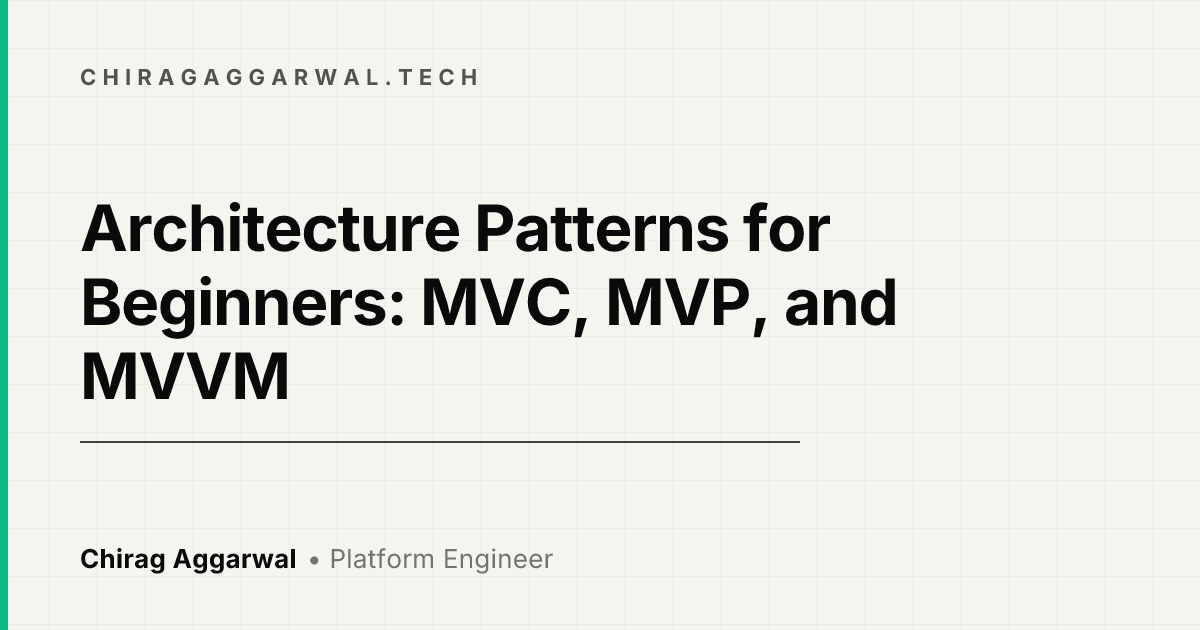
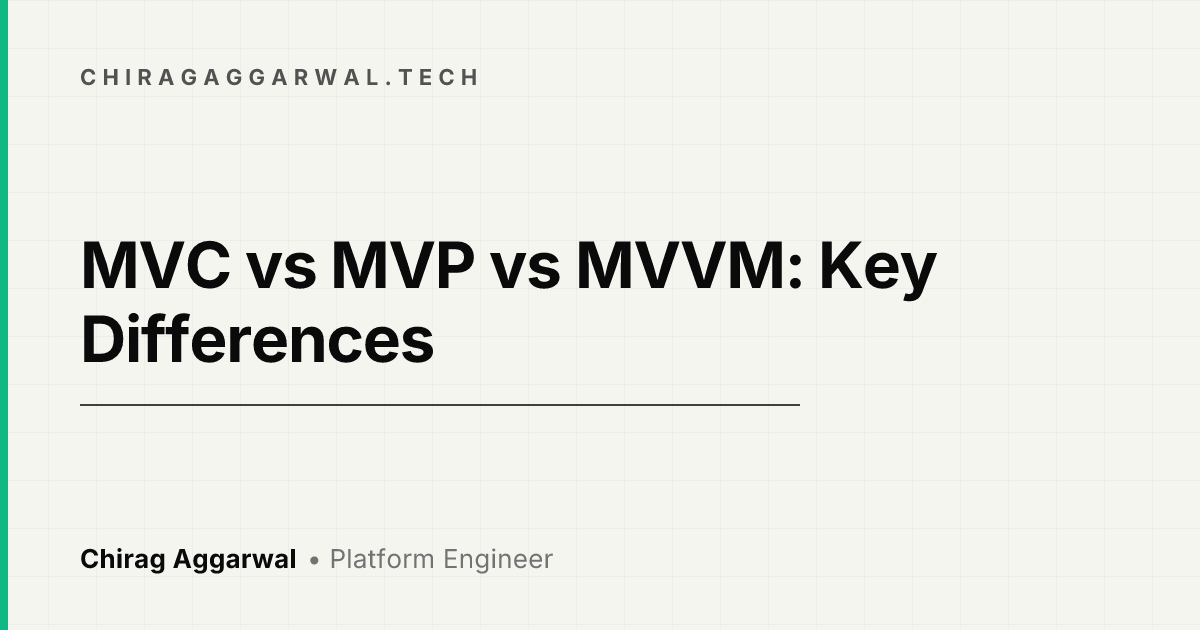
Improve search snippets and page stability

Changed region(s): [[0.0617, 0.3016, 0.8017, 0.6635], [0.0925, 0.6937, 0.6475, 0.7238], [0.6167, 0.5127, 0.6475, 0.5429]]

diff --git a/sites/profile-website/src/routes/index.tsx b/sites/profile-website/src/routes/index.tsx
@@ -35,7 +35,7 @@ export const Route = createFileRoute("/")({
           "@type": "Person",
           name: DATA.name,
           url: DATA.url,
-          image: `${DATA.url}/me.png`,
+          image: `${DATA.url}${DATA.avatarUrl}`,
           jobTitle: DATA.jobTitle,
           description: DATA.seoDescription,
           worksFor: {
@@ -104,7 +104,12 @@ function HomePage() {
               </div>
               <BlurFade delay={BLUR_FADE_DELAY}>
                 <Avatar className="size-28 border hover:shadow-lg hover:shadow-foreground/20 transition-all duration-300 ease-in-out">
-                  <AvatarImage alt={DATA.name} src={DATA.avatarUrl} />
+                  <AvatarImage
+                    alt={DATA.name}
+                    src={DATA.avatarUrl}
+                    width={112}
+                    height={112}
+                  />
                   <AvatarFallback>{DATA.initials}</AvatarFallback>
                 </Avatar>
               </BlurFade>
@@ -130,7 +135,7 @@ function HomePage() {
               </HandwrittenNote>
               <a href="/resume">
                 <Button size="sm" variant="outline">
-                  View Resume
+                  View Platform Engineer Resume
                   <Notebook className="ml-2 h-4 w-4" />
                 </Button>
               </a>
@@ -357,7 +362,7 @@ function HomePage() {
               </div>
             </BlurFade>
             <BlurFade delay={BLUR_FADE_DELAY * 14}>
-              <Marquee>
+              <Marquee repeat={2}>
                 {DATA.achievements.map((achievement, id) => (
                   <div key={achievement.title + id}>
                     <div>
@@ -367,6 +372,8 @@ function HomePage() {
                         alt={achievement.title}
                         width={400}
                         height={400}
+                        loading="lazy"
+                        decoding="async"
                       />
                     </div>
                   </div>

diff --git a/sites/profile-website/src/data/posts.tsx b/sites/profile-website/src/data/posts.tsx
@@ -9,6 +9,7 @@ type MdxPostComponent = ComponentType<{
 type BlogPost = {
   title: string;
   publishedAt: string;
+  updatedAt?: string;
   slug?: string;
   href?: string;
   // Plain-text excerpt (~155 chars) used for meta/OG/Twitter descriptions and
@@ -45,11 +46,12 @@ const basePosts: BlogPost[] = [
       "How Cyclops turns the chaos of managing Kubernetes clusters into a calm, UI-driven experience, with a hands-on walkthrough of the tool.",
   },
   {
-    title: "Conditional Dependency Management Using Maven Profiles",
+    title: "Maven Conditional Dependencies with Profiles",
     slug: "conditional-dependency-management-using-maven-profiles",
     publishedAt: "2024-08-06",
+    updatedAt: "2026-09-04",
     description:
-      "Using Maven profiles to manage conditional dependencies so your Java builds pull exactly the right libraries for each environment.",
+      "Learn how to use Maven profiles for conditional dependencies, activate profiles from the command line, and configure environment-specific Java builds.",
   },
   {
     title:
@@ -83,11 +85,12 @@ const basePosts: BlogPost[] = [
       "My journey through Hackfrost, the WeMakeDevs hackathon, and how Daytona's dev environments helped me navigate the development challenges.",
   },
   {
-    title: "Architecture Patterns for Beginners: MVC, MVP, and MVVM",
+    title: "MVC vs MVP vs MVVM: Key Differences",
     slug: "architecture-patterns-for-beginners-mvc-mvp-and-mvvm",
     publishedAt: "2024-12-28",
+    updatedAt: "2026-09-04",
     description:
-      "A beginner's guide to the MVC, MVP, and MVVM architecture patterns: what they are, how they differ, and when to reach for each one.",
+      "Compare MVC, MVP, and MVVM architecture patterns, including data flow, testability, coupling, and when to choose each approach for your application.",
   },
   {
     title:

diff --git a/sites/profile-website/src/lib/utils.ts b/sites/profile-website/src/lib/utils.ts
@@ -5,26 +5,14 @@ export function cn(...inputs: ClassValue[]) {
   return twMerge(clsx(inputs));
 }
 
-export const formatDate = (date: string) => {
-  const dateObject = new Date(date);
-  const currentDate = new Date();
-  const timeDifference = currentDate.getTime() - dateObject.getTime();
+const displayDate = new Intl.DateTimeFormat("en-US", {
+  year: "numeric",
+  month: "short",
+  day: "numeric",
+  timeZone: "UTC",
+});
 
-  const years = Math.floor(timeDifference / (1000 * 60 * 60 * 24 * 365));
-  const months = Math.floor(timeDifference / (1000 * 60 * 60 * 24 * 30));
-  const days = Math.floor(timeDifference / (1000 * 60 * 60 * 24));
-  const hours = Math.floor(timeDifference / (1000 * 60 * 60));
-  const minutes = Math.floor((timeDifference / (1000 * 60)) % 60);
-
-  if (months > 12)
-    return years === 1 ? `${years} year ago` : `${years} years ago`;
-  if (months > 0)
-    return months === 1 ? `${months} month ago` : `${months} months ago`;
-  if (days > 0) return days === 1 ? `${days} day ago` : `${days} days ago`;
-  if (hours > 0)
-    return hours === 1 ? `${hours} hour ago` : `${hours} hours ago`;
-  if (minutes > 0)
-    return minutes === 1 ? `${minutes} minute ago` : `${minutes} minutes ago`;
-
-  return "few seconds ago";
-};
+// Keep dates deterministic between the prerendered HTML and browser hydration.
+// Relative labels drift after deployment and cause React hydration mismatches.
+export const formatDate = (date: string) =>
+  displayDate.format(new Date(`${date}T00:00:00Z`));

diff --git a/sites/profile-website/src/routes/blog/$slug.tsx b/sites/profile-website/src/routes/blog/$slug.tsx
@@ -58,6 +58,10 @@ export const Route = createFileRoute("/blog/$slug")({
         ...(post
           ? [
               { property: "article:published_time", content: post.publishedAt },
+              {
+                property: "article:modified_time",
+                content: post.updatedAt ?? post.publishedAt,
+              },
               { property: "article:author", content: DATA.name },
               { property: "article:section", content: "Technology" },
               {
@@ -70,7 +74,7 @@ export const Route = createFileRoute("/blog/$slug")({
                   url,
                   mainEntityOfPage: { "@type": "WebPage", "@id": url },
                   datePublished: post.publishedAt,
-                  dateModified: post.publishedAt,
+                  dateModified: post.updatedAt ?? post.publishedAt,
                   author: {
                     "@type": "Person",
                     name: DATA.name,

diff --git a/sites/profile-website/src/routes/resume.tsx b/sites/profile-website/src/routes/resume.tsx
@@ -24,8 +24,16 @@ export const Route = createFileRoute("/resume")({
       { property: "og:title", content: PAGE_TITLE },
       { property: "og:description", content: PAGE_DESCRIPTION },
       { property: "og:url", content: PAGE_URL },
+      { property: "og:image", content: `${DATA.url}/og/resume.png` },
+      { property: "og:image:width", content: "1200" },
+      { property: "og:image:height", content: "630" },
+      {
+        property: "og:image:alt",
+        content: "Chirag Aggarwal — Platform Engineer Resume",
+      },
       { name: "twitter:title", content: PAGE_TITLE },
       { name: "twitter:description", content: PAGE_DESCRIPTION },
+      { name: "twitter:image", content: `${DATA.url}/og/resume.png` },
       {
         "script:ld+json": {
           "@context": "https://schema.org",

diff --git a/sites/profile-website/src/components/hackathon-card.tsx b/sites/profile-website/src/components/hackathon-card.tsx
@@ -26,7 +26,15 @@ export function HackathonCard({
     <li className="relative ml-10 py-4">
       <div className="absolute -left-16 top-2 flex items-center justify-center bg-white rounded-full">
         <Avatar className="border size-12 m-auto">
-          <AvatarImage src={image} alt={title} className="object-contain" />
+          <AvatarImage
+            src={image}
+            alt={title}
+            width={48}
+            height={48}
+            loading="lazy"
+            decoding="async"
+            className="object-contain"
+          />
           <AvatarFallback>{title[0]}</AvatarFallback>
         </Avatar>
       </div>

diff --git a/sites/profile-website/src/lib/agent-ready-files.test.ts b/sites/profile-website/src/lib/agent-ready-files.test.ts
@@ -71,6 +71,9 @@ describe("machine-readable discovery files", () => {
     const sitemap = read("public/sitemap.xml");
     expect(sitemap).toContain("https://www.chiragaggarwal.tech/developers");
     expect(sitemap).toContain("https://www.chiragaggarwal.tech/resume");
+    expect(sitemap).toMatch(
+      /architecture-patterns-for-beginners-mvc-mvp-and-mvvm<\/loc>\s*<lastmod>2026-09-04<\/lastmod>/,
+    );
   });
 
   test("404.html and 404.md include recovery links", () => {

diff --git a/sites/profile-website/src/components/resume-card.tsx b/sites/profile-website/src/components/resume-card.tsx
@@ -64,6 +64,10 @@ export const ResumeCard = ({
                 <AvatarImage
                   src={logoUrl}
                   alt={altText}
+                  width={40}
+                  height={40}
+                  loading="lazy"
+                  decoding="async"
                   className="object-contain"
                 />
                 <AvatarFallback>{altText[0]}</AvatarFallback>

diff --git a/sites/profile-website/src/components/ui/marquee.tsx b/sites/profile-website/src/components/ui/marquee.tsx
@@ -36,6 +36,7 @@ export default function Marquee({
         .map((_, i) => (
           <div
             key={i}
+            aria-hidden={i > 0 || undefined}
             className={cn("flex shrink-0 justify-around [gap:var(--gap)]", {
               "animate-marquee flex-row": !vertical,
               "animate-marquee-vertical flex-col": vertical,

diff --git a/sites/profile-website/src/components/project-card.tsx b/sites/profile-website/src/components/project-card.tsx
@@ -65,6 +65,8 @@ export function ProjectCard({
             alt={title}
             width={500}
             height={300}
+            loading="lazy"
+            decoding="async"
             className="h-40 w-full overflow-hidden object-cover object-top"
           />
         )}

diff --git a/sites/profile-website/src/lib/utils.test.ts b/sites/profile-website/src/lib/utils.test.ts
@@ -1,0 +1,8 @@
+import { describe, expect, test } from "bun:test";
+import { formatDate } from "./utils";
+
+describe("formatDate", () => {
+  test("formats publication dates deterministically", () => {
+    expect(formatDate("2026-08-19")).toBe("Aug 19, 2026");
+  });
+});

diff --git a/sites/profile-website/src/components/mode-toggle.tsx b/sites/profile-website/src/components/mode-toggle.tsx
@@ -17,6 +17,7 @@ export const ModeToggle = React.forwardRef<
       variant="ghost"
       type="button"
       size="icon"
+      aria-label="Toggle color theme"
       className="px-2"
       {...props}
       onClick={(event) => {
